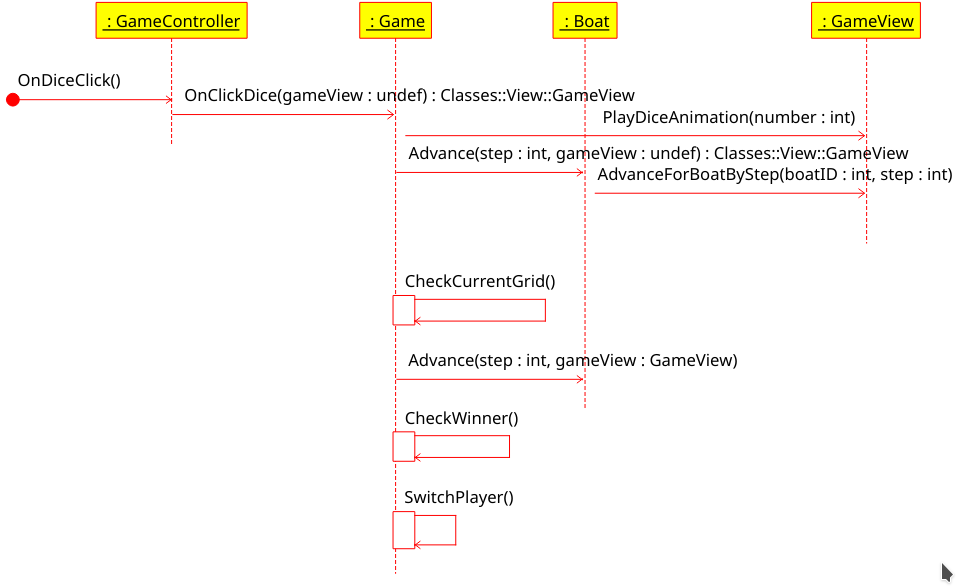
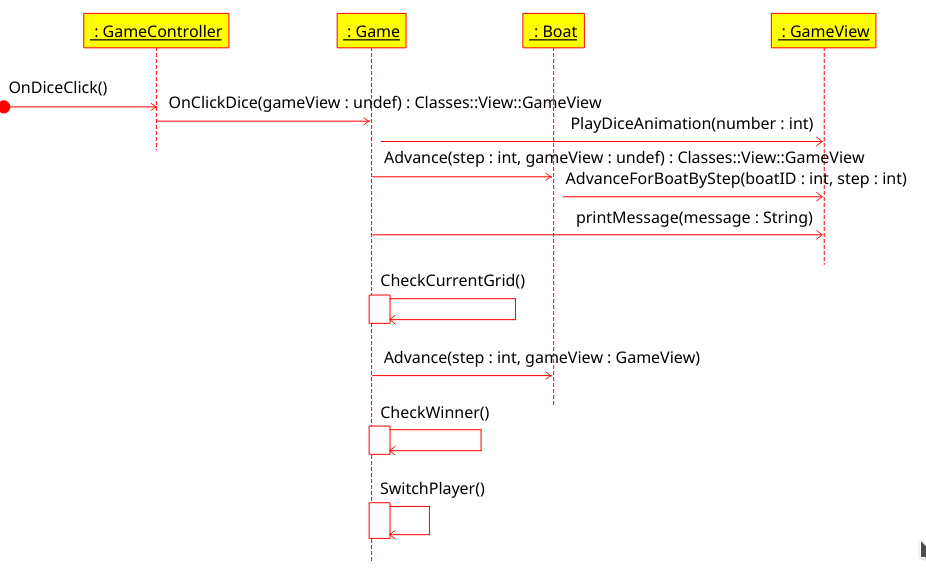
docs: change doc in uml

diff --git a/doc/UML/修改记录.md b/doc/UML/修改记录.md
@@ -4,3 +4,4 @@
 1. 11/13/20：27  创建文档
 2. 11/20/22.44 修改了 `开始游戏` 序列图中的执行顺序，插入了 `MainView` 开始游戏之前先通知 `游戏` model，在通过其通知 `MainView`
 3. 12/6/19:49 修改了 `序列图` 中 `点击骰子`， 加入了 `PlayAnimation` 函数，即 `Game` 产生随机数之后，需要通知 `GameView` 播放相应的动画
+4. 12/6/22:02 修改了 `序列图` 中 `点击骰子` ，加入了 `printMessage` 方法，即可以将信息在桌面输出
